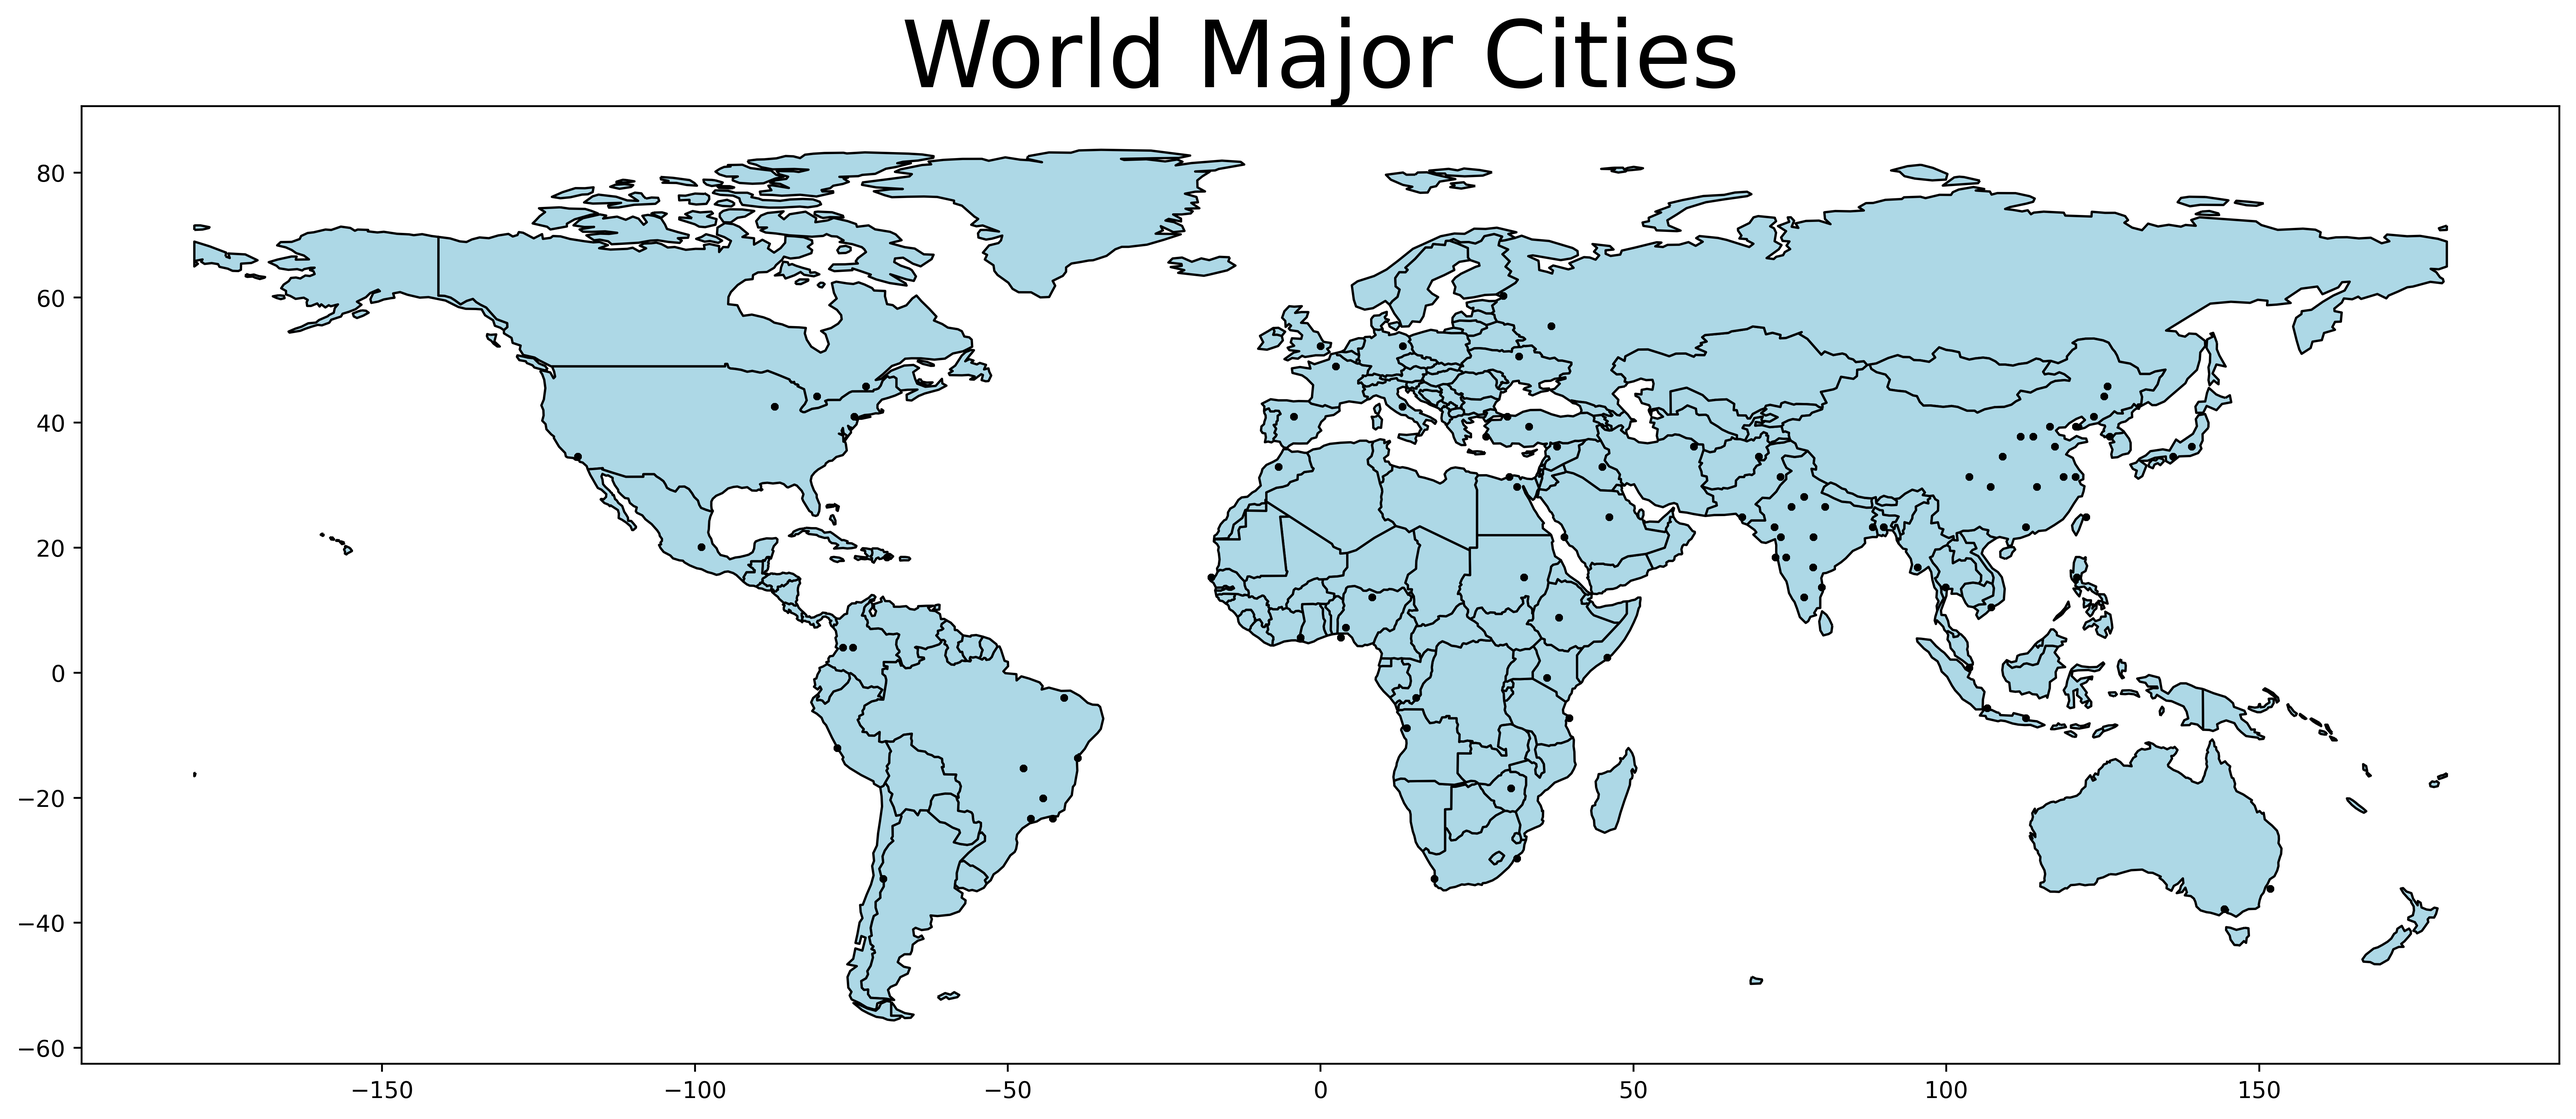
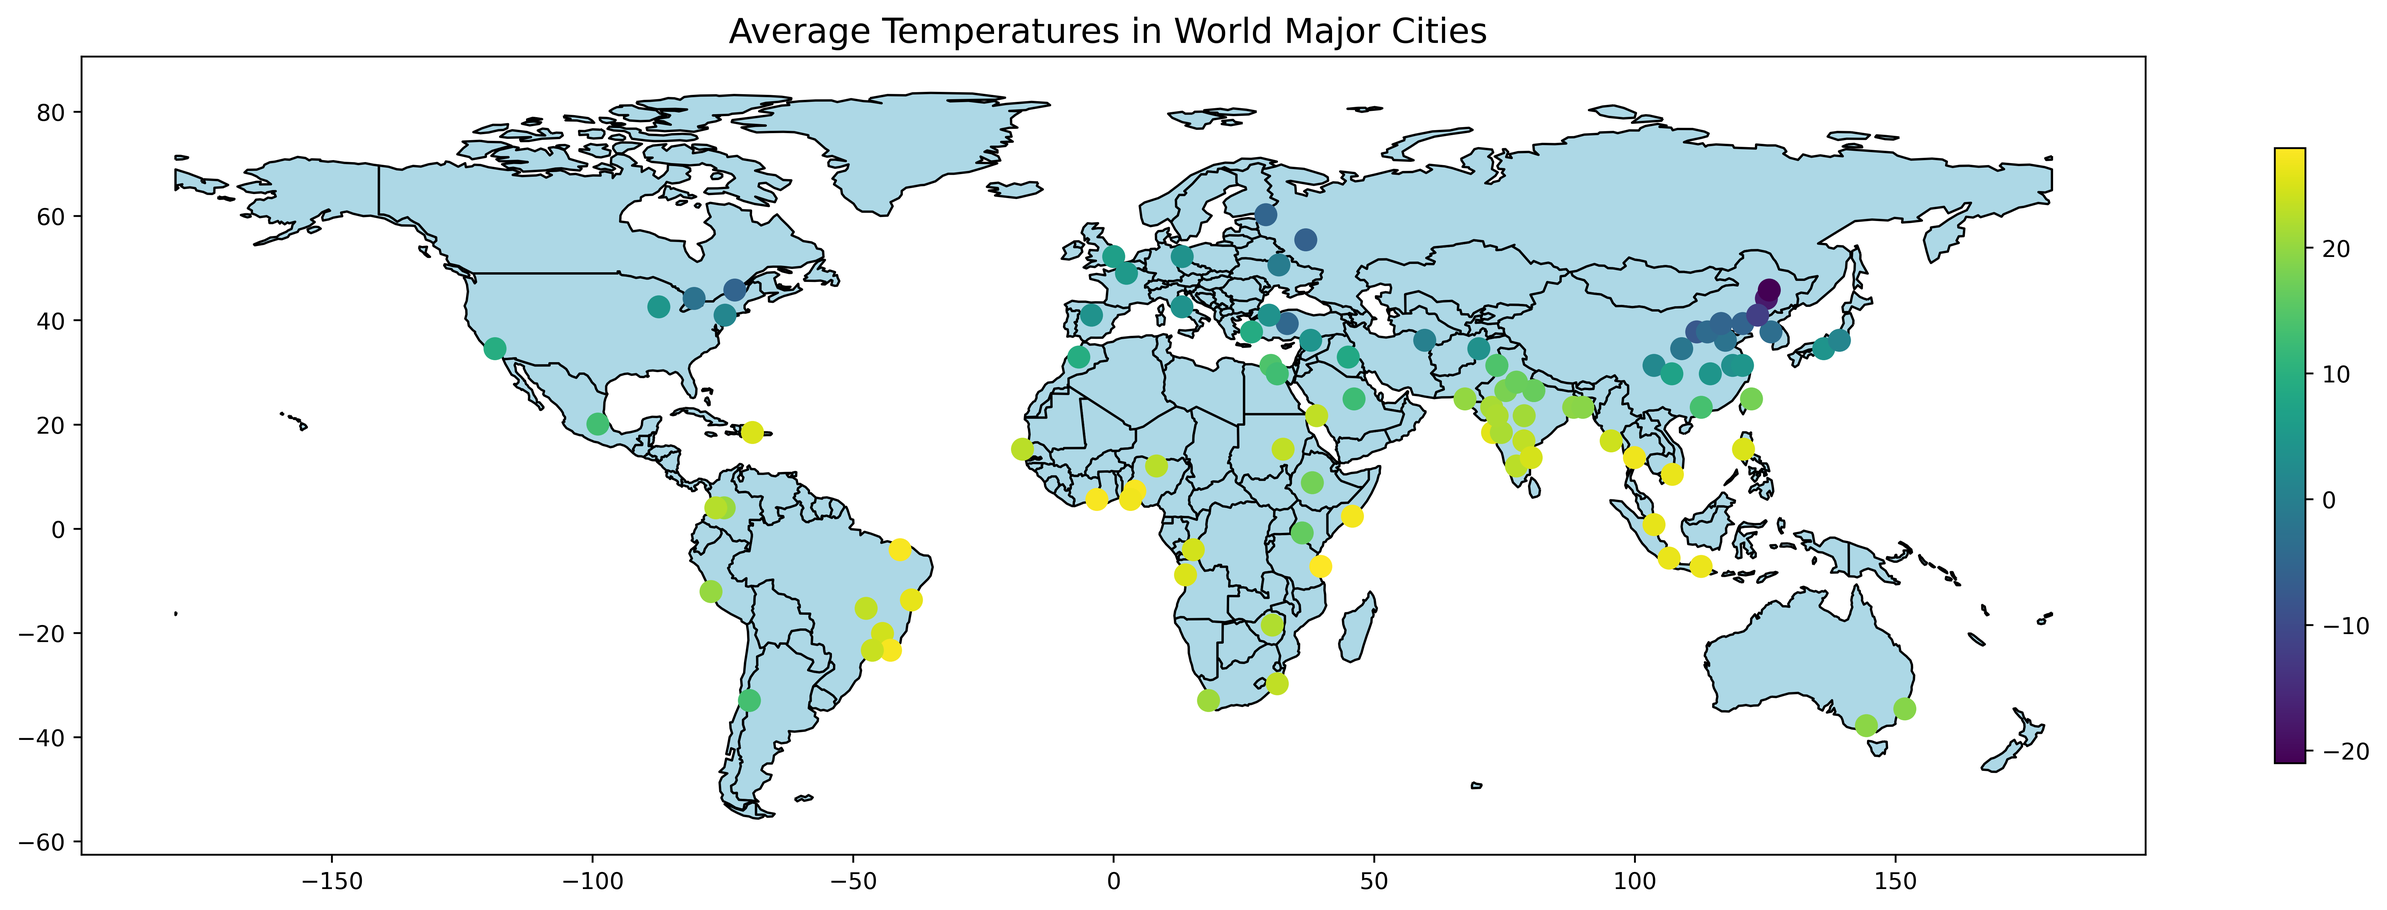
j

diff --git a/stefano.chiesa/examProject/functions.py b/stefano.chiesa/examProject/functions.py
@@ -1,3 +1,7 @@
+from matplotlib import pyplot as plt
+from matplotlib.animation import FuncAnimation
+
+
 def convert(db, column):
     if column == 'Latitude':
         for x in range(len(db[column].index)):
@@ -15,6 +19,45 @@ def convert(db, column):
 
     return db
 
-def date_format(ds, column):
-    ds[column] = pd.to_datetime(ds[column])
-    return ds
+
+def create_map(ds, dw):
+    # create a world map
+    axis = dw.plot(color='lightblue', edgecolor='black')
+    ds.plot(column='AverageTemperature', ax=axis, markersize=80, legend=True, legend_kwds={'shrink': 0.3})
+    plt.title('Average Temperatures in World Major Cities ', fontsize=15)
+    fig = plt.gcf()
+    fig.set_size_inches(20, 16)
+    fig.savefig('matplotlib.png', dpi=500, bbox_inches='tight')
+    return plt.show()
+
+
+def create_map_date(ds, dw, date):
+    ds = ds[ds['dt'] == date]
+    # getting days
+    days = ds['dt'].unique()
+    if date in days:
+        create_map(ds, dw)
+    else:
+        return print('Unavailable date')
+
+
+def create_map_gif(ds, dw, dates):
+        fig, ax = plt.subplots(figsize=(20, 16))
+
+        def update(frame):
+            ax.clear()  # Clear the previous plot
+            if ax.legend_:
+                ax.legend_.remove()  # Remove the legend from the previous frame
+
+            current_date = dates[frame]
+            axis = dw.plot(ax=ax, color='lightblue', edgecolor='black')
+            filtered_cities = ds[ds['dt'] == current_date]
+            scatter = filtered_cities.plot(column='AverageTemperature', ax=axis, markersize=80, legend=True,
+                                           legend_kwds={'shrink': 0.3})
+            plt.title(f'Average Temperatures in World Major Cities ({current_date})', fontsize=15)
+            return scatter
+
+        animation = FuncAnimation(fig, update, frames=len(dates), interval=250)
+
+        # Save the animation as a GIF file
+        animation.save('temperature_animation.gif', fps=1)  # 1 frame per second

diff --git a/stefano.chiesa/examProject/main.py b/stefano.chiesa/examProject/main.py
@@ -4,52 +4,20 @@ import geopandas as gpd
 import numpy as np
 import matplotlib.pyplot as plt
 
-
 tem_dataframe = pd.read_csv('venv/data/data_cities.csv', sep=',')  # import the data
 gpd_cities = gpd.GeoDataFrame(
-    tem_dataframe, geometry = gpd.points_from_xy(tem_dataframe.Longitude, tem_dataframe.Latitude)
+    tem_dataframe, geometry=gpd.points_from_xy(tem_dataframe.Longitude, tem_dataframe.Latitude)
 )
 # 'dt', 'AverageTemperature', 'City', 'Latitude', 'Longitude', 'geometry'
 
 
-
-
 # import a built-in dataset (deprecate from 2024)
 gpd_world = gpd.read_file(gpd.datasets.get_path('naturalearth_lowres'))
-# removing antartica
-gpd_world = gpd_world[gpd_world.name != "Antarctica"] # removing antartica
+# removing antarctica
+gpd_world = gpd_world[gpd_world.continent != "Antarctica"]  # removing antartica
 
+# fun.create_map_date(gpd_cities, gpd_world, '1990-01-01')
 
-
-create a world map
-axis = gpd_world.plot(color = 'lightblue', edgecolor = 'black')
-gpd_cities.plot(ax = axis, color = 'black', markersize = 5, legend = True)
-plt.title('World Major Cities', fontsize = 40)
-fig = plt.gcf()
-fig.set_size_inches(19.2,18.2)
-fig.savefig('matplotlib.png', dpi = 500, bbox_inches='tight')
-plt.show()
-
-
-# getting days
-days = gpd_cities['dt'].unique()
-
-
-
-
-
-
-
-
-
-
-
-
-
-
-
-
-
-
-
-
+# dates = gpd_cities['dt'].unique()
+dates = ['1990-01-01', '1990-06-01', '1910-01-01', '1998-04-01']
+fun.create_map_gif(gpd_cities, gpd_world, dates)
